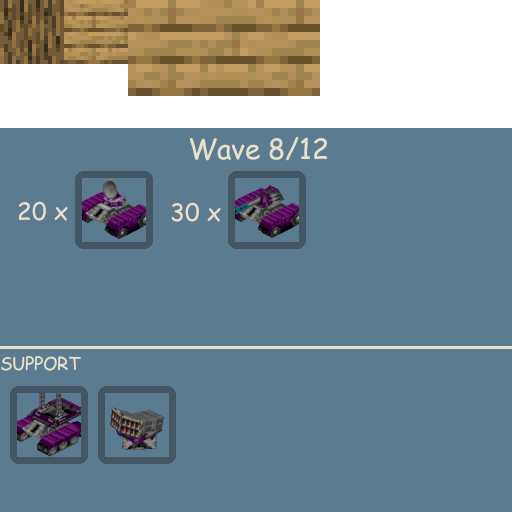
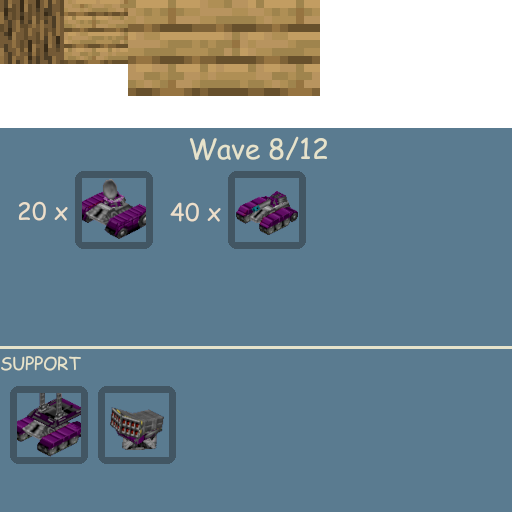
Update
make more funy

Changed region(s): [[0.4375, 0.3438, 0.5938, 0.4688], [0.3125, 0.375, 0.375, 0.4375]]

diff --git a/script/campaign/cam2-5.js b/script/campaign/cam2-5.js
@@ -145,7 +145,7 @@ function advanceWave()
 // Core Units: Sword Cyborgs and Archer Cyborgs
 // Support Units: Transporter ("Light" Cannon (half-wheels))
 // WAVE 8
-// Core Units: Sensors (tracked), Fungible Cannon (tracked)
+// Core Units: Sensors (tracked), "Light" Cannon (half-wheels)
 // Support Units: Catapults (half-tracked), Rain Rocket Batteries (from outside)
 // WAVE 9
 // Core Units: Zombies, Baby Zombies, Sword Cyborgs and Cool Cyborgs
@@ -240,8 +240,8 @@ function beginWave()
 		case 10:
 			spawnCoreUnits();
 			spawnSupportUnits();
-			setTimer("spawnCoreUnits", camChangeOnDiff(camSecondsToMilliseconds(20)));
-			setTimer("spawnSupportUnits", camChangeOnDiff(camSecondsToMilliseconds(25)));
+			setTimer("spawnCoreUnits", camChangeOnDiff(camSecondsToMilliseconds(25)));
+			setTimer("spawnSupportUnits", camChangeOnDiff(camSecondsToMilliseconds(20)));
 			break;
 		case 11: // This wave is just a bunch of VTOLs
 			camSetVtolData(BONZI_BUDDY, undefined, camMakePos("vtolRemoveZone"), [cTempl.colatv],
@@ -477,17 +477,17 @@ function spawnCoreUnits()
 				removeTimer("spawnCoreUnits");
 			}
 			break;
-		case 8: // Spawn a total of 20 Sensors and 30 Fungible Cannons
+		case 8: // Spawn a total of 20 Sensors and 40 "Light" Cannons
 			var spawnArea1 = SPAWN_ZONES[camRand(SPAWN_ZONES.length)];
-			for (let i = 0; i < 3; i++)
+			for (let i = 0; i < 4; i++)
 			{
-				// Spawn 5 Fungible Cannons
+				// Spawn 5 "Light" Cannons
 				var pos = camRandPosInArea(spawnArea1);
 				groupAdd(coreGroup, addDroid(BONZI_BUDDY, pos.x, pos.y, 
-					_("Fungible Cannon Viper II Thick Wheels"), "Body5REC", "tracked01", "", "", camRandomFungibleCannon()
+					_("\"Light\" Cannon Viper Half-wheels"), "Body1REC", "HalfTrack", "", "", "Cannon1Mk1"
 				));
 			}
-			// Include a Sensor with the Fungible Cannons
+			// Include a Sensor with the cannons
 			var pos1 = camRandPosInArea(spawnArea1);
 			groupAdd(coreGroup, addDroid(BONZI_BUDDY, pos1.x, pos1.y, 	
 				_("Sensor Viper II Thick Wheels"), "Body5REC", "tracked01", "", "", "SensorTurret1Mk1"
